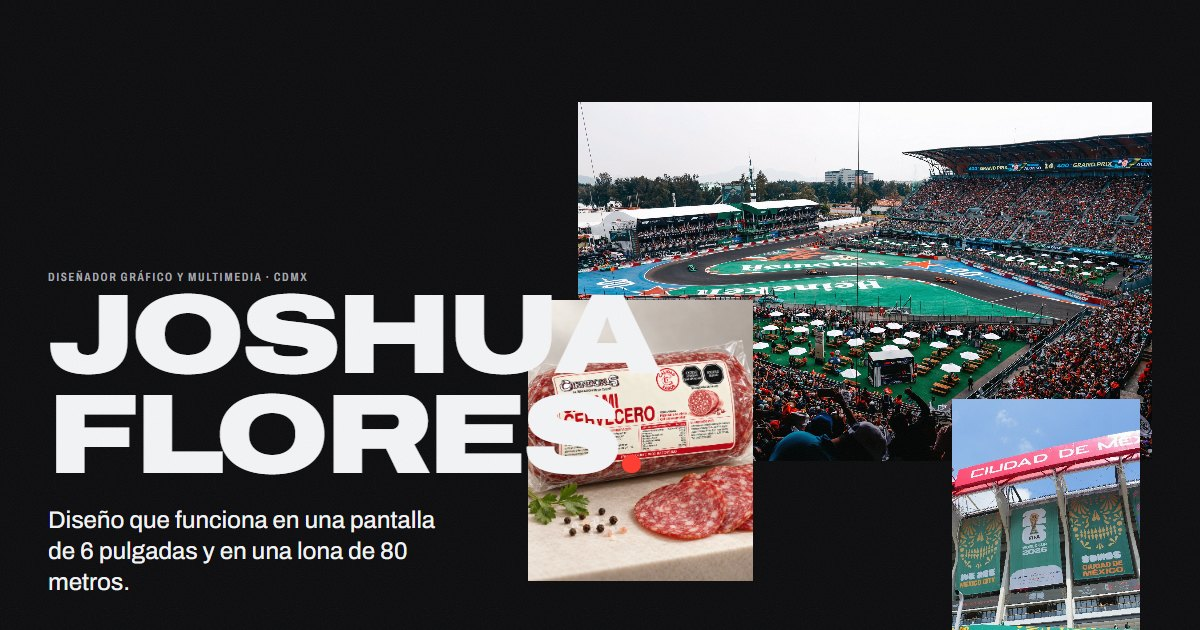
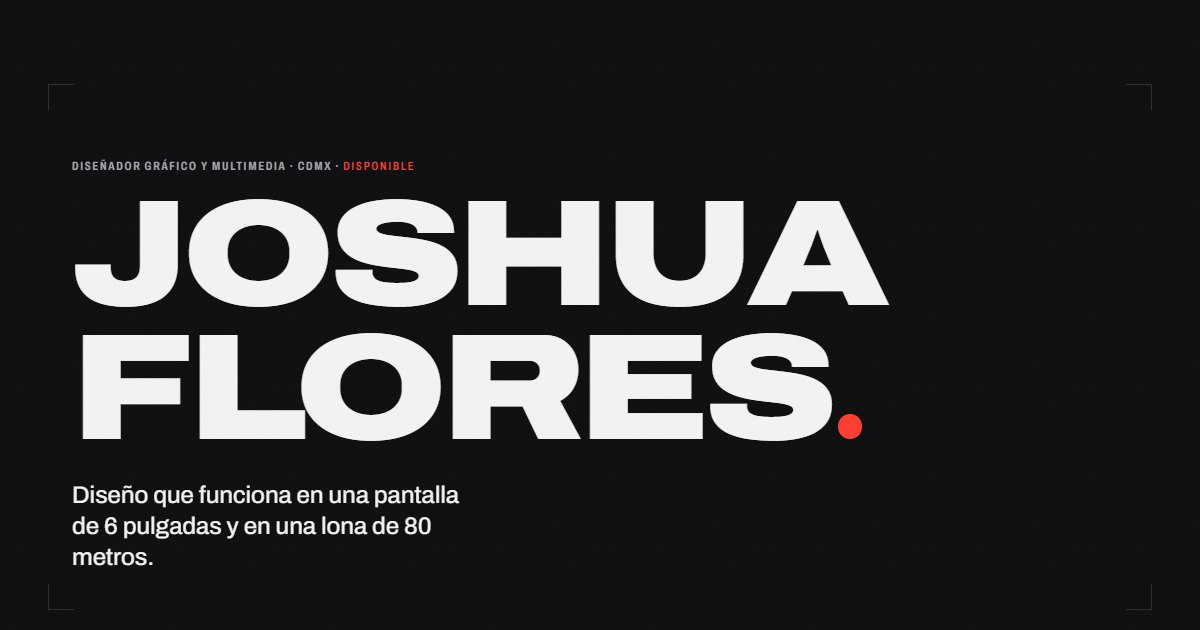
Revisión general enfocada en reclutadores
- Hero: disponibilidad visible y botón de CV que sigue el idioma.
- Galerías más cortas (Fellowes/Dahle, Ninino, Polo); las piezas
  restantes siguen en el visor.
- Servicios compactos en retícula, con celda final de contacto.
- Títulos de capítulo laterales más contenidos; sin desborde en móvil.
- Imagen OG regenerada con el hero actual.

diff --git a/index.html b/index.html
@@ -90,13 +90,13 @@
     <span class="crop__m crop__m--bl"></span><span class="crop__m crop__m--br"></span>
   </div>
   <div class="hero__copy">
-    <p class="label" data-hero data-en="Graphic &amp; multimedia designer · Mexico City">Diseñador gráfico y multimedia · CDMX</p>
+    <p class="label" data-hero data-en="Graphic &amp; multimedia designer · Mexico City · <span class=&quot;accent&quot;>Available</span>">Diseñador gráfico y multimedia · CDMX · <span class="accent">Disponible</span></p>
     <h1 class="display hero__name" id="heroName"><span class="hero__line" data-hero>Joshua</span><span class="hero__line" data-hero>Flores<span class="logo__dot" aria-hidden="true"></span></span></h1>
     <div class="hero__row">
       <p class="hero__sub" data-hero data-en="Design that works on a 6-inch screen and on an 80-metre banner.">Diseño que funciona en una pantalla de 6 pulgadas y en una lona de 80 metros.</p>
       <div class="hero__ctas" data-hero>
         <a href="#contacto" class="btn btn--primary"><span data-en="Hire me">Contratar</span> <svg class="icon icon--slide" aria-hidden="true"><use href="#i-arrow-up-right"/></svg></a>
-        <a href="#trailer" class="btn btn--ghost"><svg class="icon" aria-hidden="true"><use href="#i-play"/></svg><span data-en="Watch trailer">Ver trailer</span></a>
+        <a href="docs/Joshua_Flores_CV_ES.pdf" class="btn btn--ghost" data-cv download><svg class="icon" aria-hidden="true"><use href="#i-download-simple"/></svg><span data-en="Download CV">Descargar CV</span></a>
       </div>
     </div>
   </div>
@@ -320,11 +320,13 @@
           <div class="sys__grid sys__grid--ecom">
             <button class="tile tile--wide" type="button" data-lb="ecom" data-cap="Fellowes · Día del Maestro" data-reveal><img src="assets/img/ecom/fellowes_dia_maestro.jpg" width="1600" height="900" loading="lazy" alt="Campaña Fellowes Día del Maestro"></button>
             <button class="tile" type="button" data-lb="ecom" data-cap="Fellowes · Black Friday" data-reveal><img src="assets/img/ecom/fellowes_black_friday.jpg" width="759" height="891" loading="lazy" alt="Campaña Fellowes Black Friday"></button>
-            <button class="tile" type="button" data-lb="ecom" data-cap="Fellowes · Venus 125, Navidad" data-reveal><img src="assets/img/ecom/fellowes_venus125_navidad.jpg" width="759" height="944" loading="lazy" alt="Campaña navideña Fellowes Venus 125"></button>
             <button class="tile" type="button" data-lb="ecom" data-cap="Fellowes · Pulsar +300" data-reveal><img src="assets/img/ecom/fellowes_pulsar300.jpg" width="766" height="957" loading="lazy" alt="Fellowes Pulsar +300"></button>
             <button class="tile" type="button" data-lb="ecom" data-cap="Dahle · ShredMATIC SM 90" data-reveal><img src="assets/img/ecom/dahle_shredmatic_sm90.jpg" width="759" height="949" loading="lazy" alt="Dahle ShredMATIC SM 90"></button>
-            <button class="tile" type="button" data-lb="ecom" data-cap="Dahle · Vantage 18" data-reveal><img src="assets/img/ecom/dahle_vantage18.jpg" width="800" height="1000" loading="lazy" alt="Dahle Vantage 18"></button>
-            <button class="tile" type="button" data-lb="ecom" data-cap="Dahle · PaperSafe 380" data-reveal><img src="assets/img/ecom/dahle_papersafe380.jpg" width="800" height="1000" loading="lazy" alt="Dahle PaperSafe 380"></button>
+          </div>
+          <div hidden>
+            <button class="tile" type="button" data-lb="ecom" data-cap="Fellowes · Venus 125, Navidad"><img data-src="assets/img/ecom/fellowes_venus125_navidad.jpg" alt="Campaña navideña Fellowes Venus 125"></button>
+            <button class="tile" type="button" data-lb="ecom" data-cap="Dahle · Vantage 18"><img data-src="assets/img/ecom/dahle_vantage18.jpg" alt="Dahle Vantage 18"></button>
+            <button class="tile" type="button" data-lb="ecom" data-cap="Dahle · PaperSafe 380"><img data-src="assets/img/ecom/dahle_papersafe380.jpg" alt="Dahle PaperSafe 380"></button>
           </div>
         </section>
         <section class="sys" aria-labelledby="slTitle">
@@ -380,10 +382,12 @@
             <button class="tile" type="button" data-lb="ninino" data-cap="Ninino · Seguridad" data-reveal><img src="assets/img/ai/ninino-03-seguridad.jpg" width="1100" height="1100" loading="lazy" alt="Ninino seguridad"></button>
             <button class="tile" type="button" data-lb="ninino" data-cap="Ninino · Medidas" data-reveal><img src="assets/img/ai/ninino-04-medidas.jpg" width="1100" height="1100" loading="lazy" alt="Ninino medidas"></button>
             <button class="tile" type="button" data-lb="ninino" data-cap="Ninino · Comodidad" data-reveal><img src="assets/img/ai/ninino-05-comodidad.jpg" width="1100" height="1100" loading="lazy" alt="Ninino comodidad"></button>
-            <button class="tile" type="button" data-lb="ninino" data-cap="Ninino · Limpieza" data-reveal><img src="assets/img/ai/ninino-06-limpieza.jpg" width="1100" height="1100" loading="lazy" alt="Ninino limpieza"></button>
-            <button class="tile" type="button" data-lb="ninino" data-cap="Ninino · Charola" data-reveal><img src="assets/img/ai/ninino-07-charola.jpg" width="1100" height="1100" loading="lazy" alt="Ninino charola"></button>
-            <button class="tile" type="button" data-lb="ninino" data-cap="Ninino · Producto" data-reveal><img src="assets/img/ai/ninino-08-producto.jpg" width="1100" height="1100" loading="lazy" alt="Ninino producto"></button>
             <button class="tile" type="button" data-lb="ninino" data-cap="Ninino · En uso" data-reveal><img src="assets/img/ai/ninino-09-producto-uso.jpg" width="1100" height="1100" loading="lazy" alt="Ninino en uso"></button>
+          </div>
+          <div hidden>
+            <button class="tile" type="button" data-lb="ninino" data-cap="Ninino · Limpieza"><img data-src="assets/img/ai/ninino-06-limpieza.jpg" alt="Ninino limpieza"></button>
+            <button class="tile" type="button" data-lb="ninino" data-cap="Ninino · Charola"><img data-src="assets/img/ai/ninino-07-charola.jpg" alt="Ninino charola"></button>
+            <button class="tile" type="button" data-lb="ninino" data-cap="Ninino · Producto"><img data-src="assets/img/ai/ninino-08-producto.jpg" alt="Ninino producto"></button>
           </div>
         </section>
         <section class="sys" aria-labelledby="poloTitle">
@@ -394,9 +398,11 @@
             <button class="tile" type="button" data-lb="polo" data-cap="Polo Retro · Detalle" data-reveal><img src="assets/img/ai/polo-03-detalle.jpg" width="1080" height="1350" loading="lazy" alt="Polo Retro detalle"></button>
             <button class="tile" type="button" data-lb="polo" data-cap="Polo Retro · Medidas" data-reveal><img src="assets/img/ai/polo-04-medidas.jpg" width="1080" height="1350" loading="lazy" alt="Polo Retro medidas"></button>
             <button class="tile" type="button" data-lb="polo" data-cap="Polo Retro · Lifestyle" data-reveal><img src="assets/img/ai/polo-05-lifestyle.jpg" width="1080" height="1350" loading="lazy" alt="Polo Retro lifestyle"></button>
-            <button class="tile" type="button" data-lb="polo" data-cap="Polo Retro · Lifestyle" data-reveal><img src="assets/img/ai/polo-06-lifestyle.jpg" width="1080" height="1350" loading="lazy" alt="Polo Retro lifestyle"></button>
-            <button class="tile" type="button" data-lb="polo" data-cap="Polo Retro · Detalle" data-reveal><img src="assets/img/ai/polo-07-detalle.jpg" width="1080" height="1350" loading="lazy" alt="Polo Retro detalle"></button>
-            <button class="tile" type="button" data-lb="polo" data-cap="Polo Retro · Detalle" data-reveal><img src="assets/img/ai/polo-08-detalle.jpg" width="1080" height="1350" loading="lazy" alt="Polo Retro detalle"></button>
+          </div>
+          <div hidden>
+            <button class="tile" type="button" data-lb="polo" data-cap="Polo Retro · Lifestyle"><img data-src="assets/img/ai/polo-06-lifestyle.jpg" alt="Polo Retro lifestyle"></button>
+            <button class="tile" type="button" data-lb="polo" data-cap="Polo Retro · Detalle"><img data-src="assets/img/ai/polo-07-detalle.jpg" alt="Polo Retro detalle"></button>
+            <button class="tile" type="button" data-lb="polo" data-cap="Polo Retro · Detalle"><img data-src="assets/img/ai/polo-08-detalle.jpg" alt="Polo Retro detalle"></button>
           </div>
         </section>
       </div>
@@ -575,6 +581,11 @@
         <h3 class="svc__t" data-en="Web design">Diseño web</h3>
         <p class="svc__d" data-en="Fast, bilingual brand sites, designed and built end to end.">Sitios de marca rápidos y bilingües, diseñados y construidos de punta a punta.</p>
         <ul class="svc__tags"><li data-en="Design">Diseño</li><li data-en="Build">Desarrollo</li><li>ES / EN</li></ul>
+      </li>
+      <li class="svc svc--cta" data-reveal>
+        <h3 class="svc__t" data-en="Something else?">¿Algo distinto?</h3>
+        <p class="svc__d" data-en="If it is not on this list, tell me what you need and we will talk it through.">Si no está en esta lista, cuéntame qué necesitas y lo platicamos.</p>
+        <a href="#contacto" class="btn btn--primary btn--sm" data-en="Hire me">Contratar</a>
       </li>
     </ul>
   </div>

diff --git a/css/styles.css b/css/styles.css
@@ -433,8 +433,8 @@ ul, ol { padding: 0; list-style: none; }
 .sys__grid { display: grid; gap: 10px; grid-template-columns: repeat(3, 1fr); }
 .sys__grid--polo { grid-template-columns: repeat(2, 1fr); }
 .sys__grid .tile:first-child { grid-column: span 2; grid-row: span 2; }
-.sys__grid--polo .tile:first-child { grid-column: span 1; grid-row: span 1; }
-.sys__grid--ecom { grid-template-columns: repeat(2, 1fr); align-items: start; }
+.sys__grid--polo .tile:first-child { grid-column: 1 / -1; grid-row: span 1; }
+.sys__grid--ecom { grid-template-columns: repeat(3, 1fr); align-items: start; }
 .sys__grid--ecom .tile:first-child { grid-column: span 1; grid-row: span 1; }
 .sys__grid--ecom .tile.tile--wide { grid-column: 1 / -1; }
 @media (min-width: 900px) {
@@ -513,17 +513,15 @@ ul, ol { padding: 0; list-style: none; }
 .nw { white-space: nowrap; }
 .reel__cap { padding: 12px 14px; font-size: var(--fs-sm); color: var(--text-2); display: flex; justify-content: space-between; gap: 8px; }
 
-/* Servicios */
-.services { border-top: 1px solid var(--line); }
-.svc { position: relative; display: grid; gap: 10px; padding: 28px 0; border-bottom: 1px solid var(--line); }
-.svc__t { font-size: clamp(1.7rem, 4.6vw, 3.6rem); font-stretch: 120%; font-weight: 850; letter-spacing: -.03em; line-height: 1; text-transform: uppercase; }
-.svc__d { color: var(--text-2); max-width: 52ch; }
+/* Servicios: compactos, en retícula */
+.services { display: grid; grid-template-columns: 1fr; border-top: 1px solid var(--line); }
+.svc { display: grid; gap: 10px; align-content: start; padding: 24px 0; border-bottom: 1px solid var(--line); }
+.svc__t { font-size: clamp(1.25rem, 2vw, 1.6rem); font-stretch: 115%; font-weight: 800; letter-spacing: -.02em; line-height: 1.1; text-transform: uppercase; }
+.svc__d { color: var(--text-2); max-width: 46ch; }
 .svc__tags { display: flex; flex-wrap: wrap; gap: 6px 14px; font-size: var(--fs-sm); color: var(--text-2); }
 .svc__tags li::before { content: "+ "; color: var(--accent); }
-@media (min-width: 900px) {
-  .svc { grid-template-columns: 7fr 5fr; align-items: center; column-gap: 48px; padding: 40px 0; }
-  .svc__t { grid-row: span 2; }
-}
+@media (min-width: 700px) { .services { grid-template-columns: 1fr 1fr; column-gap: 32px; } }
+@media (min-width: 1100px) { .services { grid-template-columns: repeat(3, 1fr); column-gap: 40px; } .svc { padding: 32px 0; } }
 
 /* Experiencia */
 .timeline { border-top: 1px solid var(--line); }
@@ -749,3 +747,10 @@ html.lenis, html.lenis body { height: auto; }
 .caviar__labels .tile { aspect-ratio: 1 / 1; }
 .caviar__pair .tile { aspect-ratio: 4 / 3; }
 .caviar__labels .tile img, .caviar__pair .tile img { height: 100%; object-fit: cover; }
+
+/* Revisión general */
+html { overflow-x: clip; }
+.trailer { overflow: hidden; }
+@media (min-width: 900px) { .split__aside .h2 { font-size: clamp(2.4rem, 3.6vw, 3.4rem); } }
+.svc--cta { justify-content: start; align-content: center; }
+.svc--cta .btn { justify-self: start; margin-top: 6px; }

diff --git a/js/main.js b/js/main.js
@@ -66,6 +66,7 @@
       document.title = META[next].title;
       var d = $('meta[name="description"]'); if (d) d.setAttribute('content', META[next].desc);
     }
+    $$('[data-cv]').forEach(function (el) { el.setAttribute('href', 'docs/Joshua_Flores_CV_' + (next === 'en' ? 'EN' : 'ES') + '.pdf'); });
     var wa = $('#waLink'); if (wa) wa.href = 'https://wa.me/525527130635?text=' + encodeURIComponent(META[next].wa);
     if (persist) store.set('jf-lang', next);
     if (hasGsap) ScrollTrigger.refresh();
